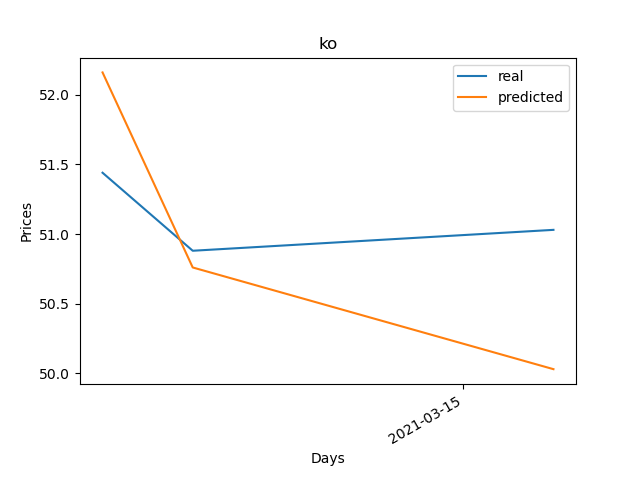
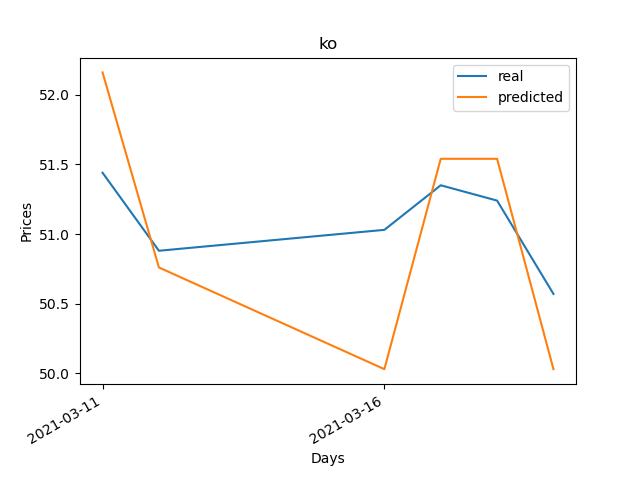
graphs update

diff --git a/Automatization.py b/Automatization.py
@@ -39,7 +39,7 @@ def last_values(ticker):
     else:
         date = datetime.today().date()- timedelta(days=1)
     key_values = []
-    last_value = data.DataReader(ticker, start = date, end= date ,data_source='yahoo').values[0]
+    last_value = data.DataReader(ticker, start = date ,data_source='yahoo').values[0]
     key_values.append(last_value[0])
     key_values.append(last_value[1])
     key_values.append(last_value[2])
